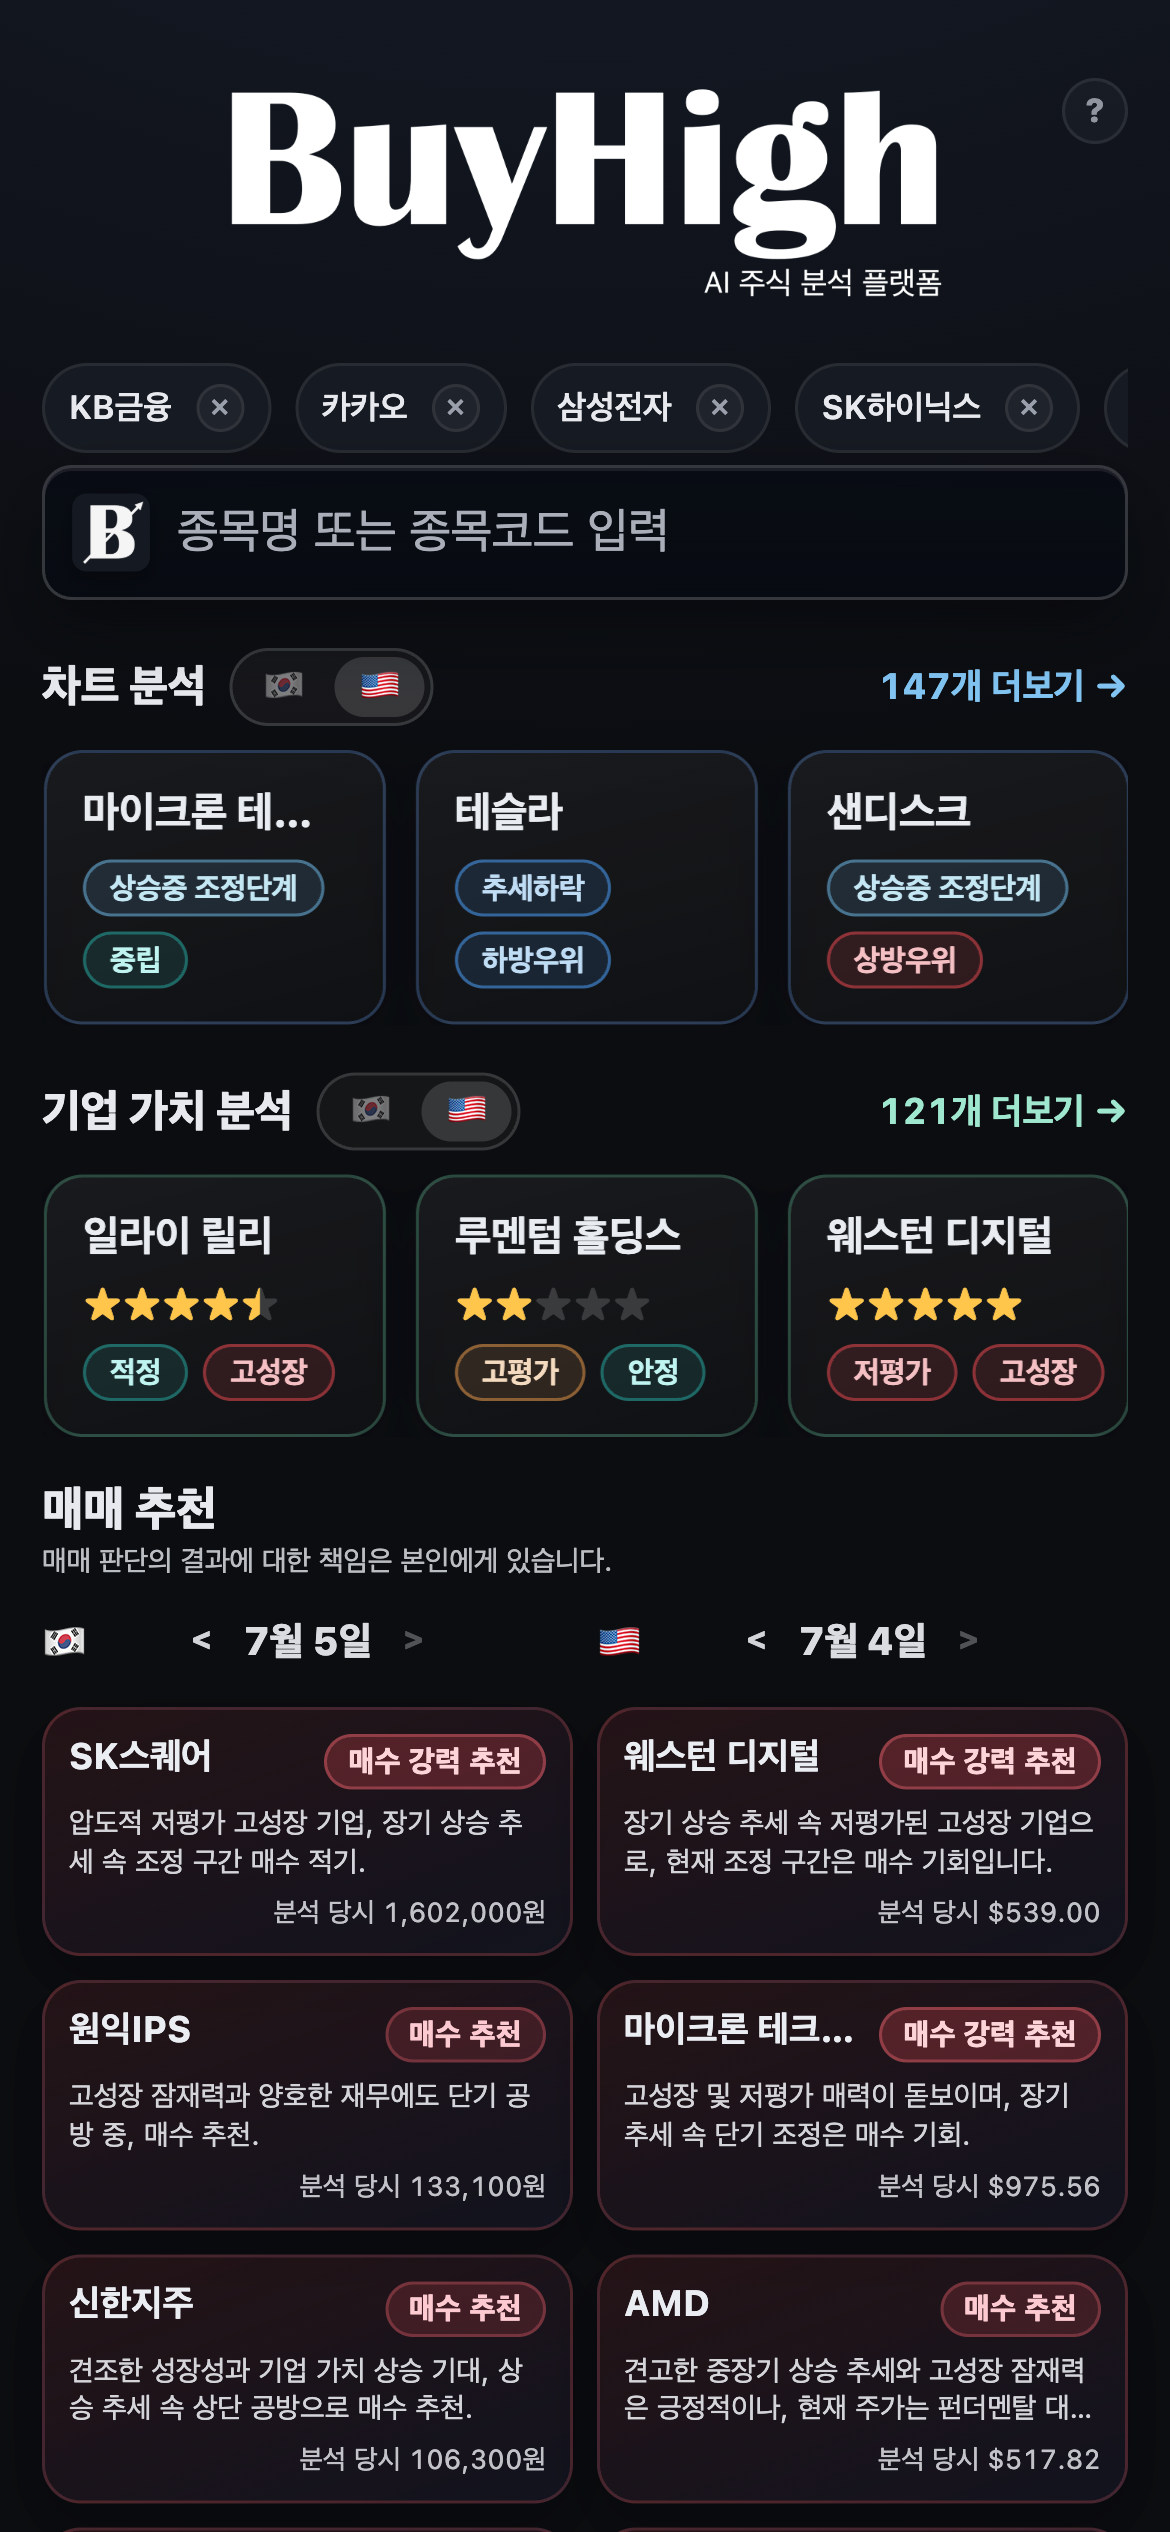
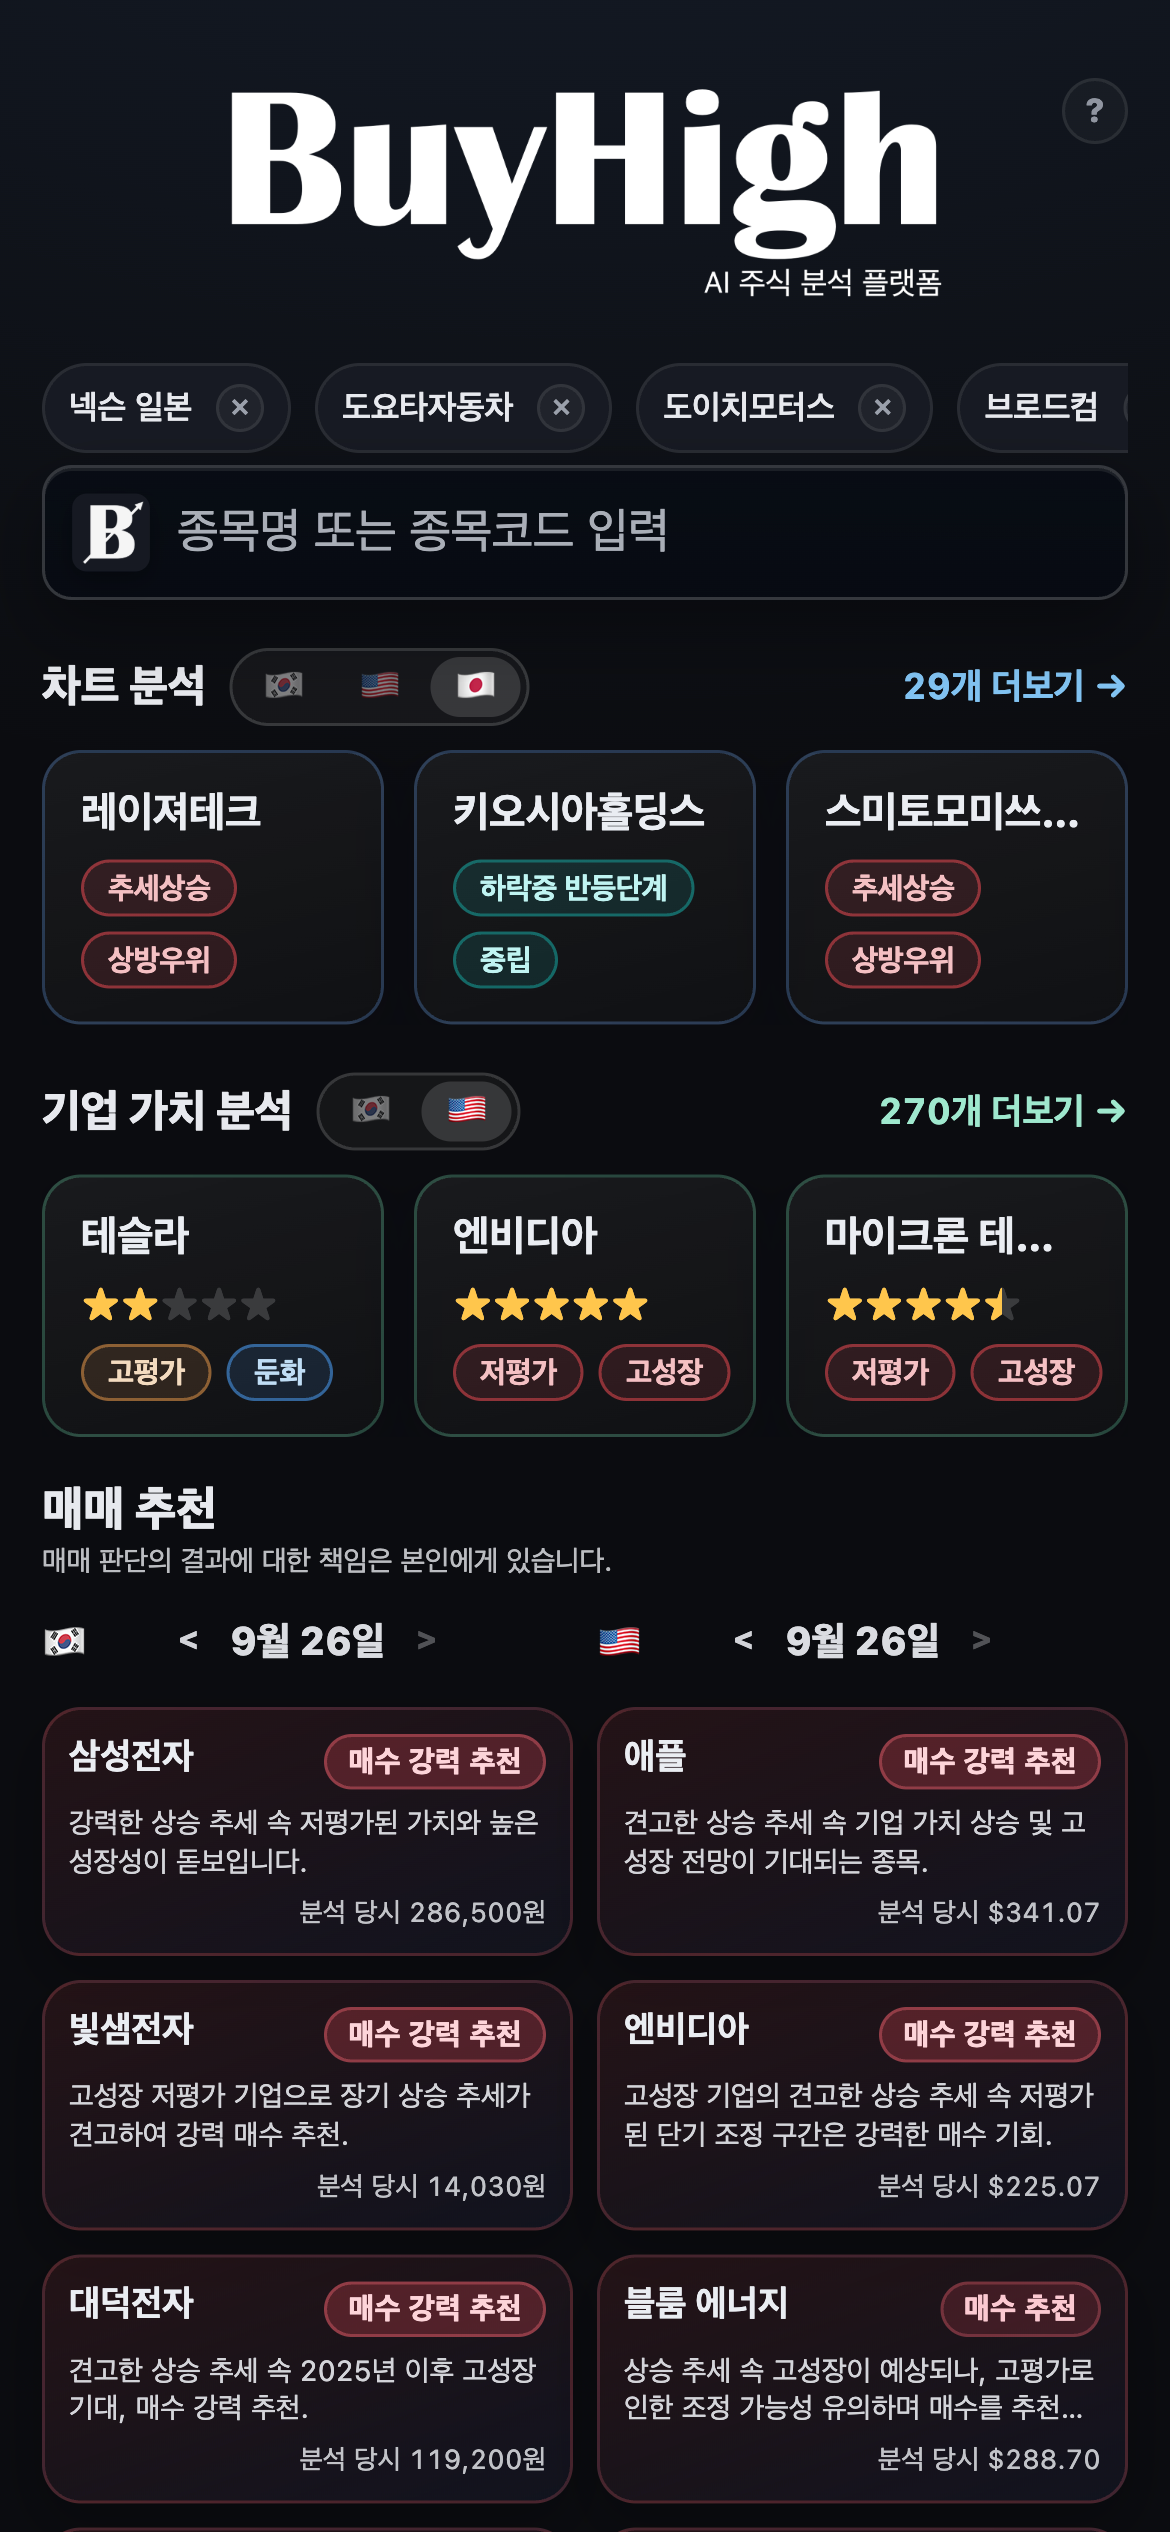
docs: Add Japan stock support to READMEs

diff --git a/README.ja.md b/README.ja.md
@@ -29,7 +29,7 @@
 
 ## 概要
 
-**BuyHigh** は、韓国株・米国株の銘柄に対して **無料のAI分析レポート** を提供するWebプラットフォームです。
+**BuyHigh** は、韓国株・米国株・日本株の銘柄に対して **無料のAI分析レポート** を提供するWebプラットフォームです。
 複雑なチャートや財務指標を、誰にでも理解できる分析レポートに変換します。
 
 ## 主な機能

diff --git a/README.md b/README.md
@@ -29,7 +29,7 @@
 
 ## 소개
 
-**BuyHigh**는 국내·미국 주식 종목에 대한 **무료 AI 분석 리포트**를 제공하는 웹 플랫폼입니다.
+**BuyHigh**는 국내·미국·일본 주식 종목에 대한 **무료 AI 분석 리포트**를 제공하는 웹 플랫폼입니다.
 복잡한 차트와 재무 지표를, 누구나 이해할 수 있는 분석 리포트로 풀어냅니다.
 
 ## 주요 기능

diff --git a/README.en.md b/README.en.md
@@ -29,7 +29,7 @@ From chart & valuation analysis to AI reports — all in one place.
 
 ## About
 
-**BuyHigh** is a web platform that provides **free AI analysis reports** for Korean and US stocks.
+**BuyHigh** is a web platform that provides **free AI analysis reports** for Korean, US and Japan stocks.
 It turns complex charts and financial metrics into reports anyone can understand.
 
 ## Features
